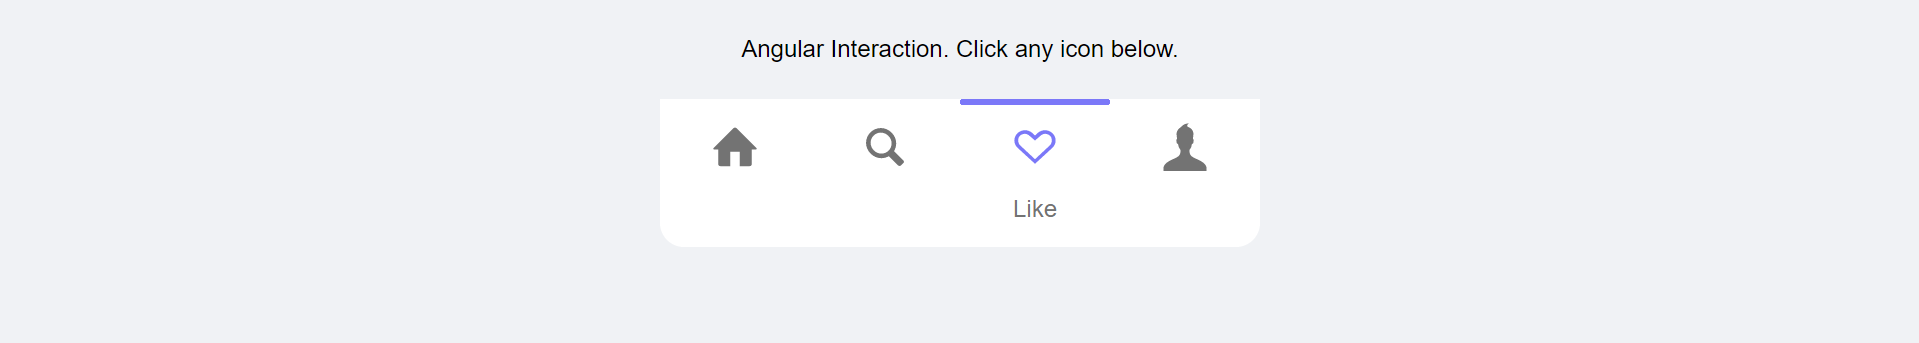
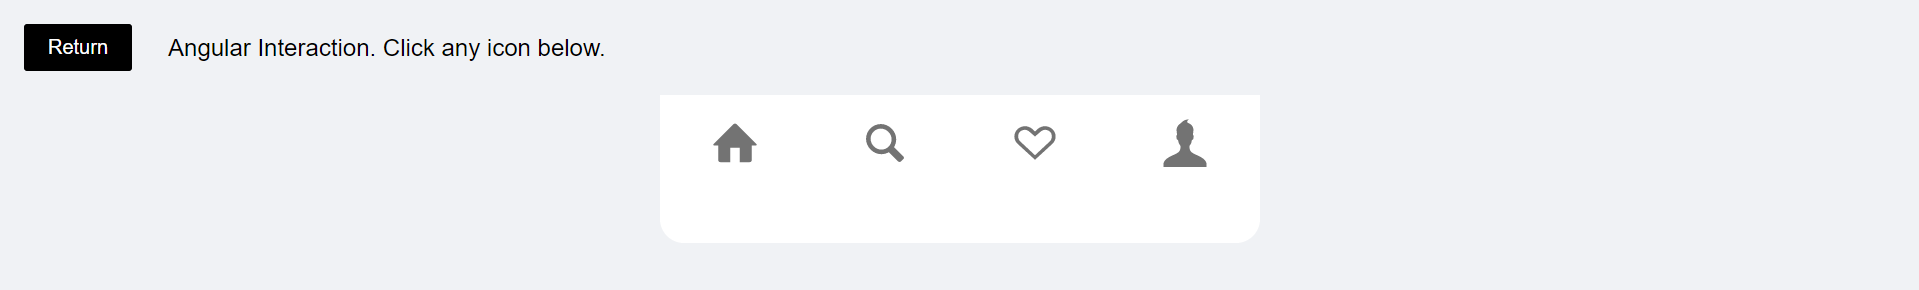
Shared modue: button back
and adding, fixed some global styles

diff --git a/src/app/components/navbar/navbar.component.html b/src/app/components/navbar/navbar.component.html
@@ -1,13 +1,13 @@
-<div class="text-center my-3">
-    Angular Interaction. Click any icon below.
+<div class="d-flex ai-center m-2 text-center">
+    <app-go-back></app-go-back>
+    <p class="ml-3">Angular Interaction. Click any icon below.</p>
 </div>
 
 <div class="navbar m-0-auto">
     <ul class="nav position-relative d-flex p-0 bg-white bs-light">
         <ng-container *ngFor="let item of navList; index as i">
-            <li class="nav__item d-flex flex-direction-column ai-center flex-1 height-inherit" 
-            [ngClass]="{'active': i === selected}" 
-            (click)="onSelect(elem, i)" #elem>
+            <li class="nav__item d-flex flex-direction-column ai-center flex-1 height-inherit cursor-pointer"
+                [ngClass]="{'active': i === selected}" (click)="onSelect(elem, i)" #elem>
                 <svg class="icon">
                     <use attr.href="../../../assets/svg/icons.svg#{{item.icon}}"></use>
                 </svg>

diff --git a/src/assets/scss/spacing/_padding.scss b/src/assets/scss/spacing/_padding.scss
@@ -32,44 +32,44 @@
     padding-bottom: $n * .5rem;
 }
 
-.p- {
-    &0 {
+.p {
+    &-0 {
         @include padding(0);
     }
 
-    &1 {
+    &-1 {
         @include full-padding(1, 1);
     }
 
-    &1-1\.5 {
+    &-1-1\.5 {
         @include full-padding(1, 1.5);
     }
 
-    &1-2 {
+    &-1-2 {
         @include full-padding(1, 2);
     }
 
-    &2 {
+    &-2 {
         @include full-padding(2, 2);
     }
 
-    &2-1\.5 {
+    &-2-1\.5 {
         @include full-padding(1, 1.5);
     }
 
-    &3 {
+    &-3 {
         @include full-padding(3, 3);
     }
 
-    &4 {
+    &-4 {
         @include full-padding(4, 4);
     }
 
-    &5 {
+    &-5 {
         @include full-padding(5, 5);
     }
 
-    &6 {
+    &-6 {
         @include full-padding(6, 6);
     }
 

diff --git a/src/app/components/navbar/navbar.module.ts b/src/app/components/navbar/navbar.module.ts
@@ -2,15 +2,17 @@ import { NgModule } from '@angular/core';
 import { CommonModule } from '@angular/common';
 import { RouterModule } from '@angular/router';
 
-import { NavbarRoutingModule } from './navbar-routing.module';
 import { NavbarComponent } from './navbar.component';
 
+import { SharedModule } from 'src/app/shared/shared.module';
+import { NavbarRoutingModule } from './navbar-routing.module';
 
 @NgModule({
   declarations: [NavbarComponent],
   imports: [
     CommonModule,
     NavbarRoutingModule,
+    SharedModule
   ],
   exports: [RouterModule]
 })

diff --git a/src/index.html b/src/index.html
@@ -1,13 +1,17 @@
 <!doctype html>
 <html lang="en">
+
 <head>
   <meta charset="utf-8">
   <title>Angular - UI</title>
   <base href="/">
   <meta name="viewport" content="width=device-width, initial-scale=1">
   <link rel="icon" type="image/x-icon" href="https://www.flaticon.com/svg/static/icons/svg/2622/2622178.svg">
+  <script src="https://kit.fontawesome.com/821e8bb9ad.js"></script>
 </head>
+
 <body>
   <app-root></app-root>
 </body>
+
 </html>

diff --git a/src/app/components/go-back/go-back.component.ts b/src/app/components/go-back/go-back.component.ts
@@ -1,0 +1,20 @@
+import { Component, OnInit } from '@angular/core';
+import { Location } from '@angular/common';
+
+@Component({
+  selector: 'app-go-back',
+  templateUrl: './go-back.component.html',
+  styleUrls: ['./go-back.component.scss']
+})
+export class GoBackComponent implements OnInit {
+
+  constructor(private _location: Location) { }
+
+  ngOnInit(): void {
+  }
+
+  goBack() {
+    this._location.back();
+  }
+
+}

diff --git a/src/app/components/components.module.ts b/src/app/components/components.module.ts
@@ -2,12 +2,14 @@ import { NgModule } from '@angular/core';
 import { CommonModule } from '@angular/common';
 
 import { ComponentsRoutingModule } from './components-routing.module';
+import { GoBackComponent } from './go-back/go-back.component';
 
 @NgModule({
   declarations: [],
   imports: [
     CommonModule,
     ComponentsRoutingModule
-  ]
+  ],
+  exports: [],
 })
 export class ComponentsModule { }

diff --git a/src/app/shared/shared.module.ts b/src/app/shared/shared.module.ts
@@ -1,0 +1,13 @@
+import { NgModule } from '@angular/core';
+import { CommonModule } from '@angular/common';
+
+import { GoBackComponent } from '../components/go-back/go-back.component';
+
+@NgModule({
+  declarations: [GoBackComponent],
+  imports: [
+    CommonModule
+  ],
+  exports: [GoBackComponent],
+})
+export class SharedModule { }

diff --git a/src/assets/scss/_color.scss b/src/assets/scss/_color.scss
@@ -9,6 +9,7 @@
 
     // 3. Background
     --bg-white  : #FFFFFF;
+    --bg-black  : #000000;
     --body-color: #F0F2F5;
 
     // 4. Line
@@ -37,6 +38,10 @@
 .bg {
     &-white {
         background-color: var(--bg-white);
+    }
+
+    &-black {
+        background-color: var(--bg-black);
     }
 
     &-primary {

diff --git a/src/assets/scss/utilities/_button.scss b/src/assets/scss/utilities/_button.scss
@@ -8,8 +8,8 @@ button {
     }
 }
 
-.cursor__ {
-    &pointer:hover {
+.cursor {
+    &-pointer:hover {
         cursor: pointer;
     }
 }

diff --git a/src/app/components/go-back/go-back.component.html b/src/app/components/go-back/go-back.component.html
@@ -1,0 +1,3 @@
+<div>
+    <button class="bg-black text-white bd-none p-1-2 cursor-pointer" (click)="goBack()">Return</button>
+</div>

diff --git a/src/app/components/navbar/readme.md b/src/app/components/navbar/readme.md
@@ -1,5 +1,5 @@
 ### There is simple navbar usually see on the website
 
-Item is actived will show text, slider and icon color. So, it will be loss when click another item
+Item is active will show text, slider and icon color. So, it will be loss when click another item
 
 ![Navbar Image](https://raw.githubusercontent.com/diosvo/Angular-UI/master/src/assets/images/github/navbar.png)
